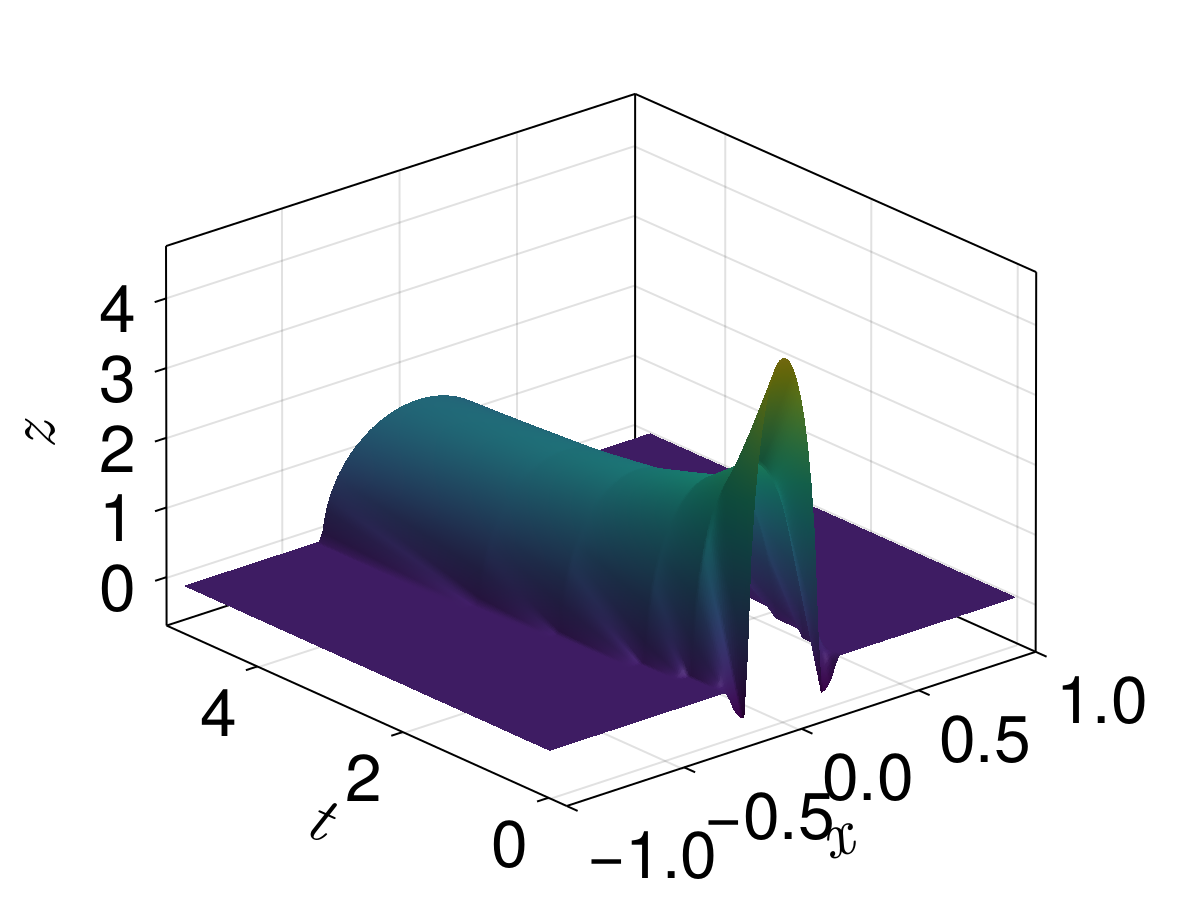
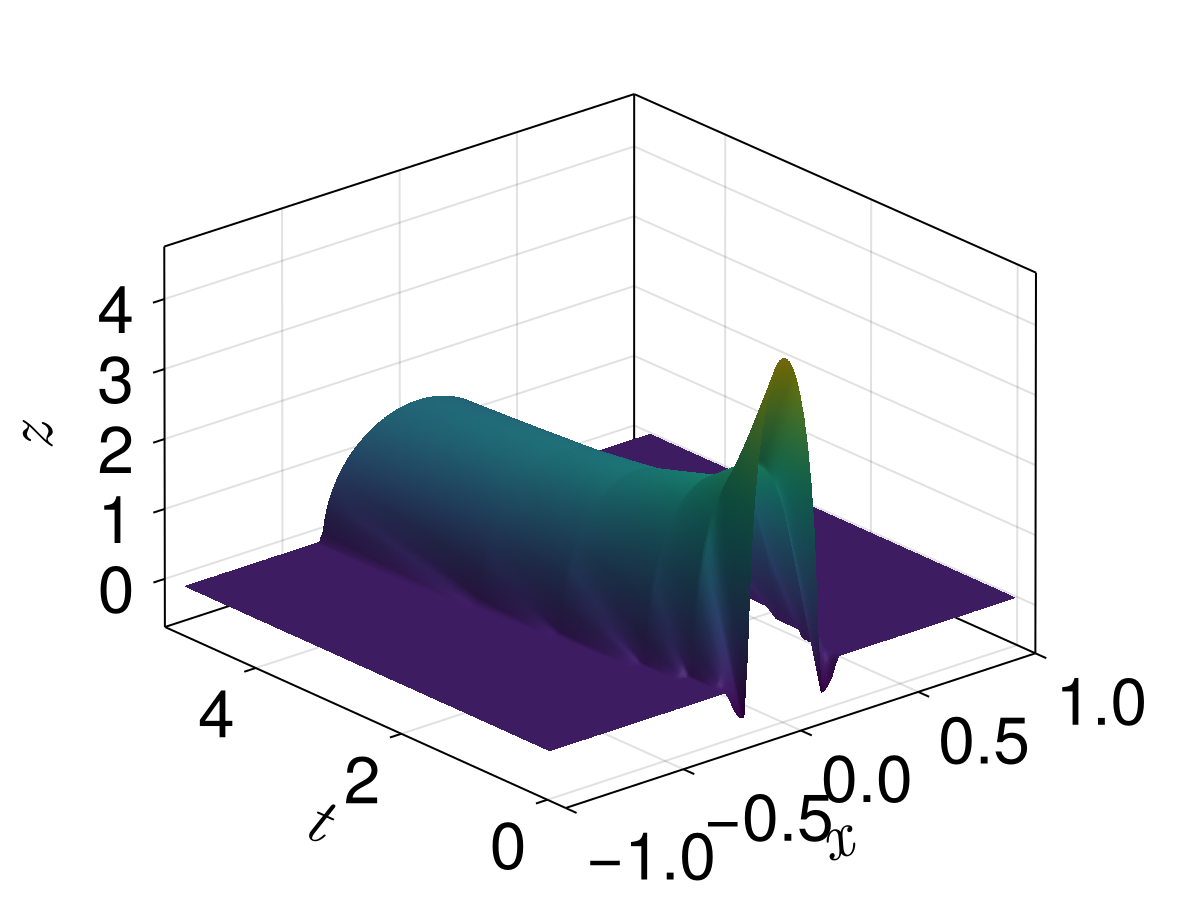
Fix dirichlet_source numerical tolerance and refresh surface PNG references
The reaction-diffusion test's analytical solution involves exp(-16π² t) and
exp(-25π² t) terms, which decay to O(1e-3) by t = 0.05. Default solver
tolerances (abstol = 1e-6, reltol = 1e-3) leave residuals comparable to the
signal itself, so the rtol = 0.1 comparison against the closed-form exact_u
no longer holds under OrdinaryDiffEq v7's TRBDF2 step-size heuristics.
Tighten the solver tolerances (abstol = 1e-10, reltol = 1e-8) so the
comparison is meaningful (norm error drops from ~0.26 to ~1.6e-5 relative).
Apply the same tighter tolerances in the matching docs example so the
displayed figure can be reproduced from the documented code.

Regenerate the three surface PNG references (porous_surface,
robin_diffusion_surface, dirichlet_source_surface) against CairoMakie v0.15
output. Renderer/font changes since the references were committed dropped
PSNR below 25 (22.14 / 22.69 / 21.76) without any change to the underlying
solutions; the regenerated PNGs match the CairoMakie v0.15 renderer used
on current CI.

diff --git a/docs/src/examples.md b/docs/src/examples.md
@@ -128,7 +128,8 @@ Now we solve and plot the solution.
 ```julia
 using OrdinaryDiffEq
 using LinearSolve
-sol = solve(prob, TRBDF2(linsolve = KLUFactorization()), saveat = 0.001)
+sol = solve(prob, TRBDF2(linsolve = KLUFactorization()), saveat = 0.001,
+    abstol = 1.0e-10, reltol = 1.0e-8)
 
 using CairoMakie
 let t_range = LinRange(0.0, final_time, 250)